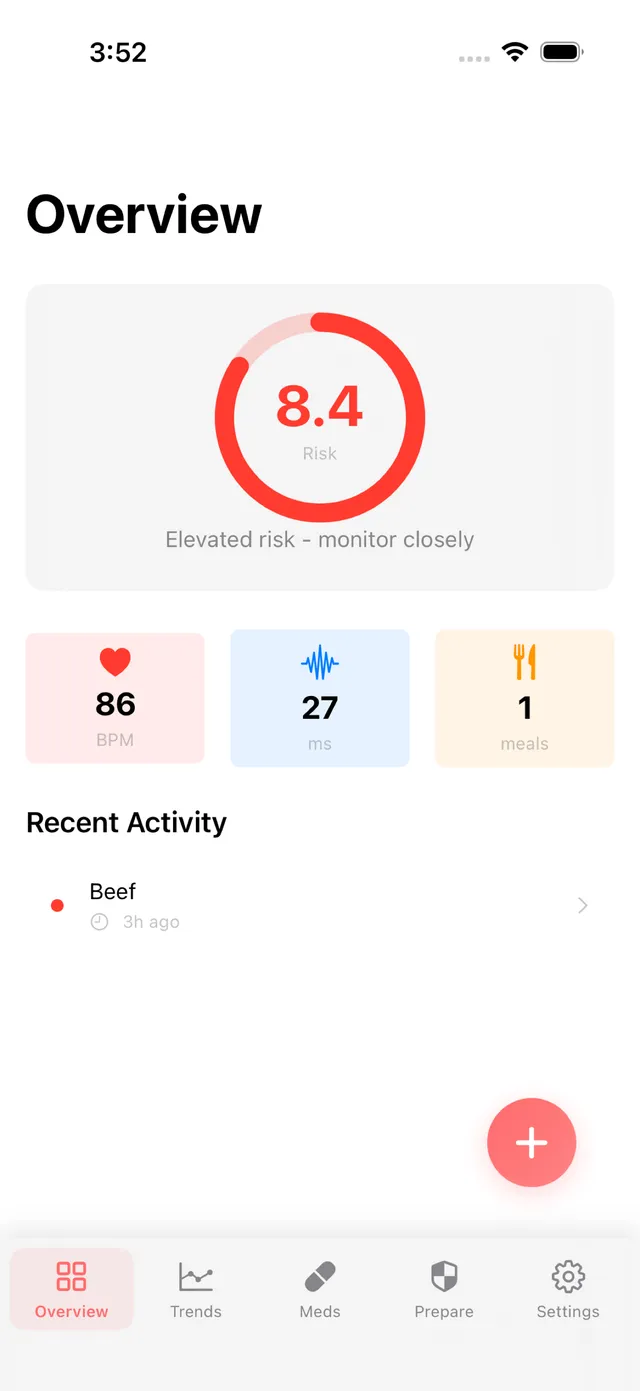
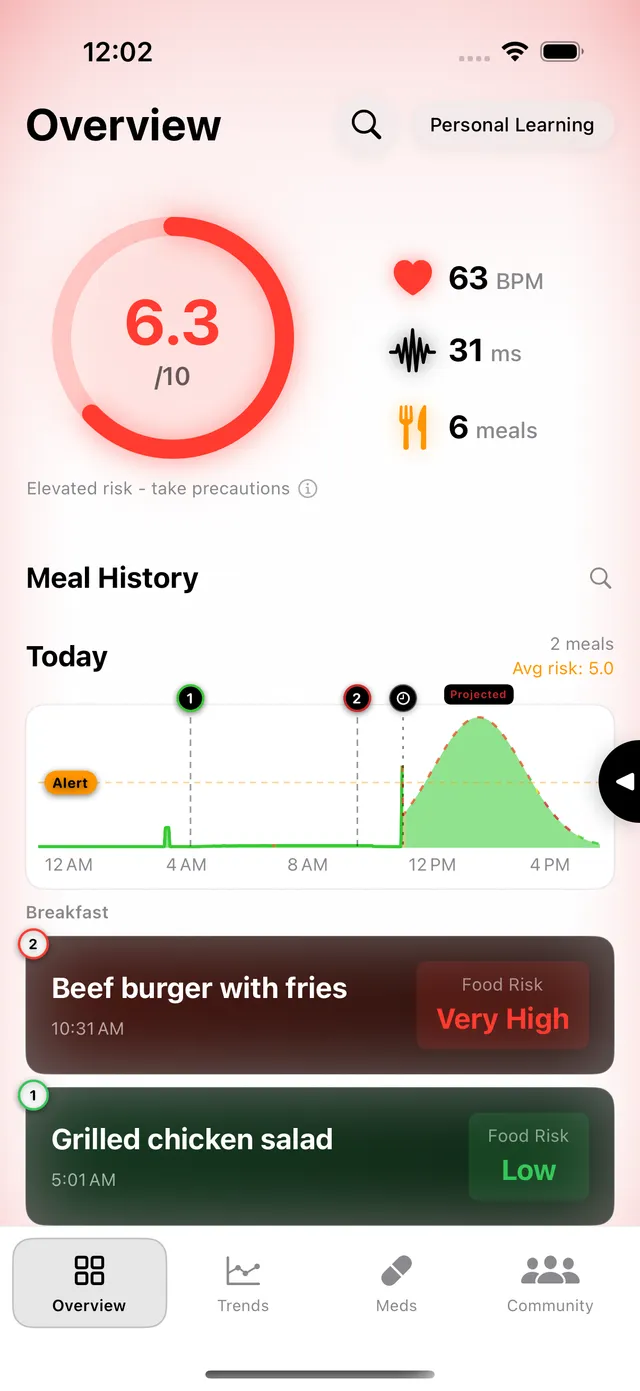
Use the current VectorShield marketing screenshots
Swap the February App Store captures for the June 2026 website set that
vectorshield.app itself uses: overview dashboard, medication check with
verdict, restaurant detail sheet.

Claude-Session: https://claude.ai/code/session_01ET3Q5d1GCGmPfppQzxDnqi

diff --git a/src/data/projects.ts b/src/data/projects.ts
@@ -18,7 +18,7 @@ export const projects: Project[] = [
     text: 'VectorShield is an app for people with alpha-gal syndrome, the tick-borne allergy to mammalian products. It scans products, checks medications against FDA data, and finds safe food, all tuned to one of four sensitivity levels, and a Chrome extension does the same on retail sites. I built it because I wish I’d had it when I was learning I had alpha-gal syndrome.',
     link: { label: 'Visit vectorshield.app', url: 'https://vectorshield.app' },
     icon: 'vectorshield-icon',
-    media: { phones: ['vectorshield-overview', 'vectorshield-trends', 'vectorshield-restaurants'] },
+    media: { phones: ['vectorshield-overview', 'vectorshield-medication', 'vectorshield-restaurants'] },
   },
   {
     slug: 'riverstock',
